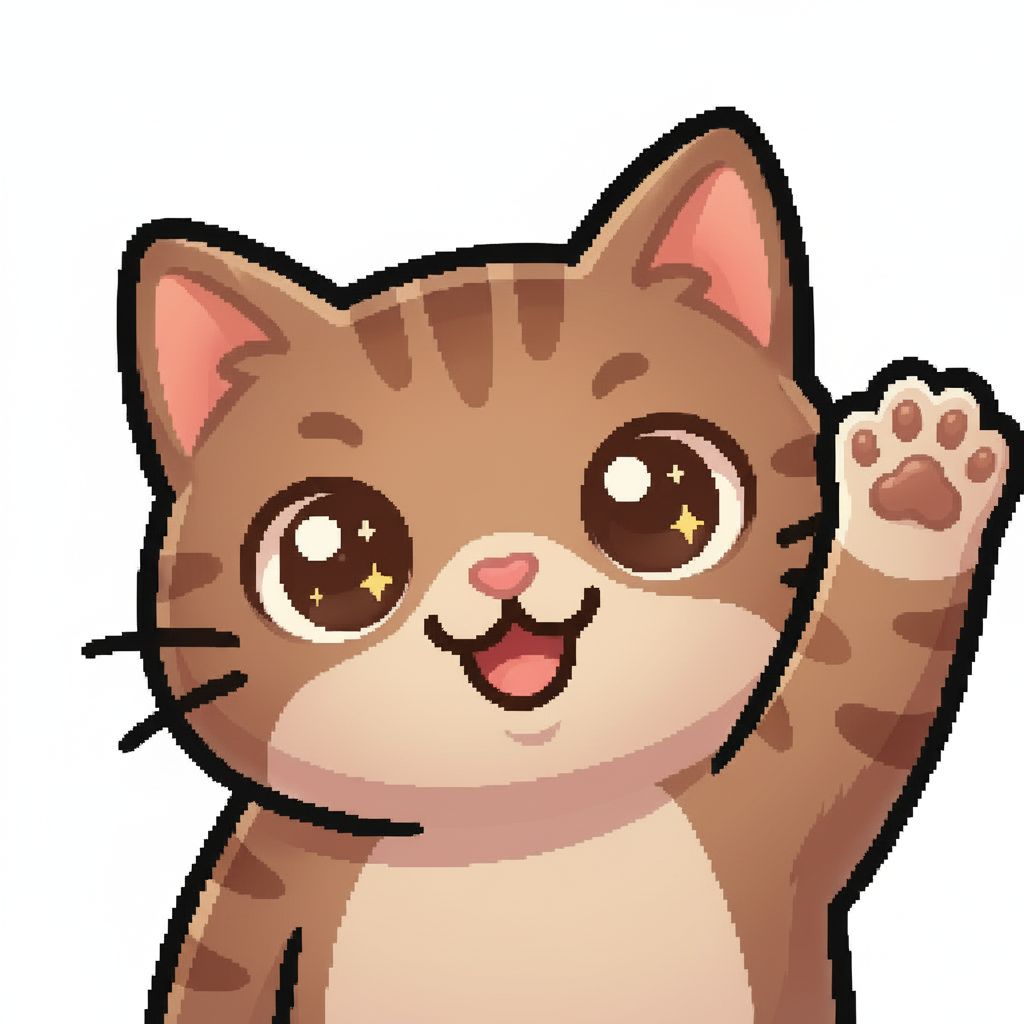
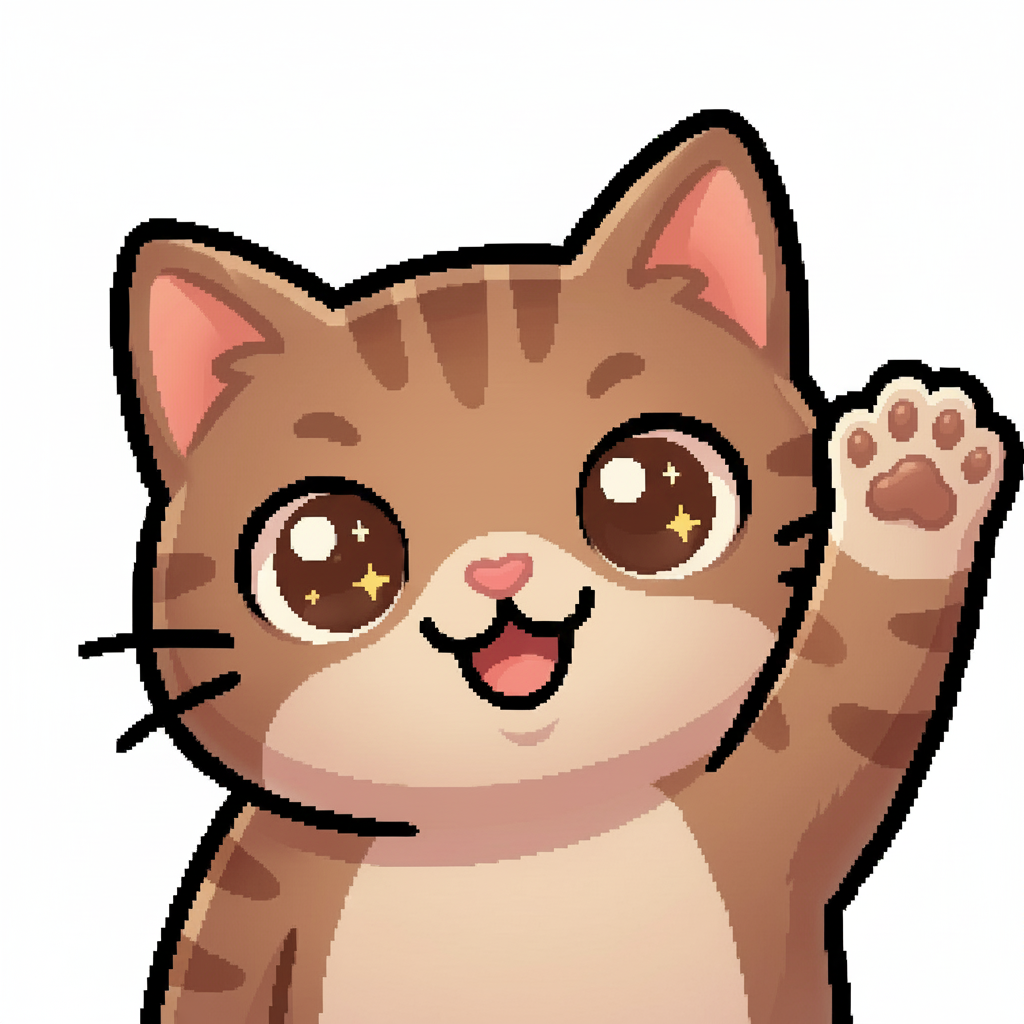
feat: add AI-generated style preview images (v3.1.53+174)
更新 6 種風格貓咪示意圖（fallback 用途），
與 style×emotion 示意圖系統共存。

https://claude.ai/code/session_01N4U5SSB2SMEBV47yhKEbZR

diff --git a/PRD.md b/PRD.md
@@ -3,7 +3,7 @@
 |---|---|
 | 專案名稱 | Magic Sticker（AI 一鍵產 LINE 貼圖） |
 | 版本號規範 | SemVer (Major.Minor.Patch+Build) |
-| 目前版本 | v3.1.52+173 |
+| 目前版本 | v3.1.53+174 |
 | 開發平台 | Flutter (Android & iOS) |
 | 監控系統 | Firebase Crashlytics & Analytics |
 | 核心技術 | Gemini 2.0 Flash Exp Image Generation（圖片生成）|
